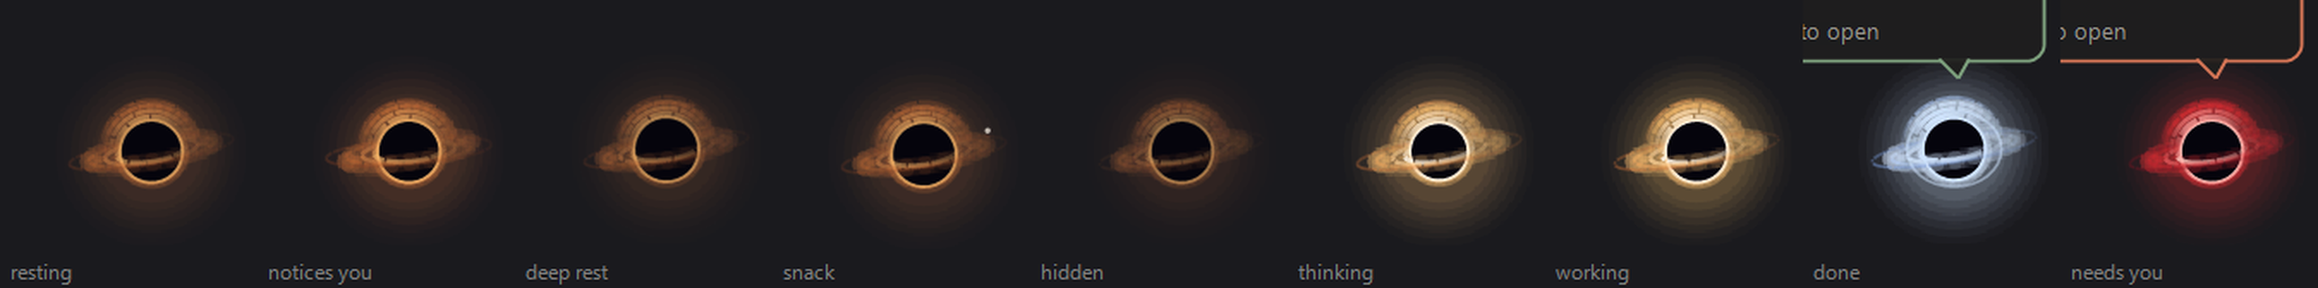
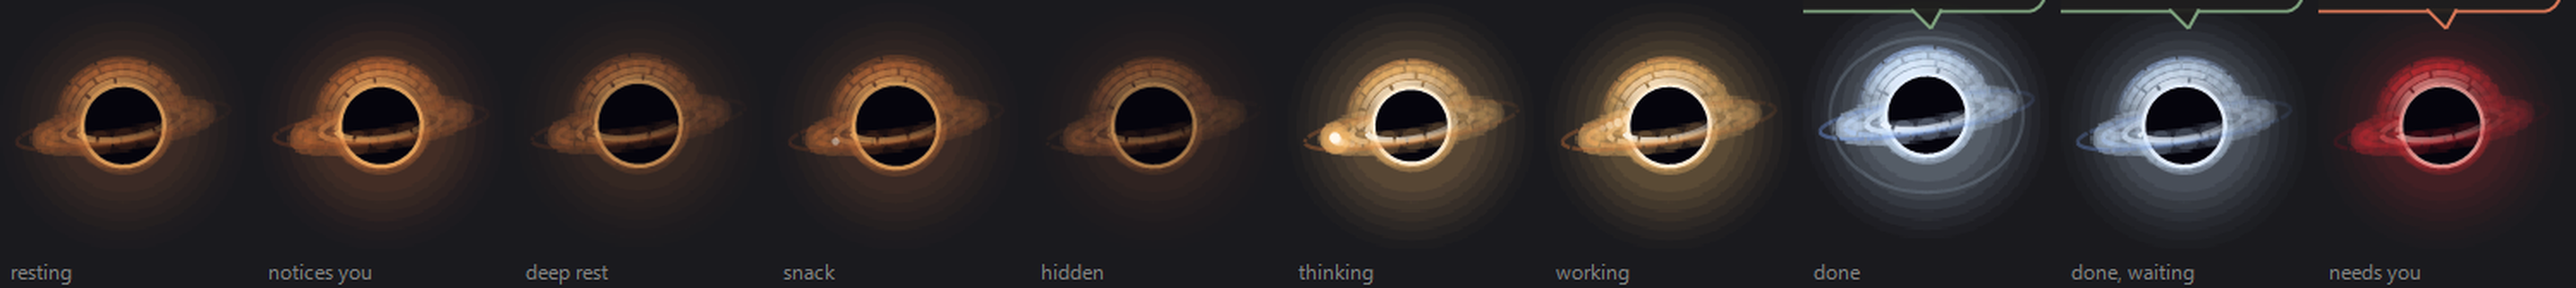
Make working and done unmistakable, and draw Voidling 30% larger
After its flare, a finished task settled to the same white-gold as a
running one, slightly dimmer and slower, so the two were hard to tell
apart from across the desk.

- Working: one bright knot of gas with a short tail races round the
  disk, hidden by the void as it passes behind.
- Done: the gas turns cool blue-white and all but stops, and stays so
  until you look, with a ripple of light every few seconds.
- Needs you stays crimson; resting stays dim amber.

So: moving and gold is working, blue and still is done, red is needs
you. Voidling is also drawn 30% larger, with its glow and disk caches
built at the larger size; the click zone grows to match.

A frame takes about 1.3 ms; live on this 144 Hz screen, 68 frames a
second at 10% of one core while on screen.

diff --git a/desktop/Pet.cs b/desktop/Pet.cs
@@ -34,7 +34,9 @@ public class PetForm : Form
 
     // The canvas, in pixels at 100% scaling. The core sits bottom right and
     // the bubble above it, so the window can hug the screen corner.
-    const int W = 300, H = 200, Span = 84;
+    const int W = 300, H = 200, Span = 110;
+    // Voidling is drawn this much larger than its geometry below.
+    const float Zoom = 1.3f;
 
     static readonly Color Blue = Color.FromArgb(91, 157, 187);
     static readonly Color Gold = Color.FromArgb(255, 200, 70);
@@ -325,7 +327,7 @@ public class PetForm : Form
         Point c = PointToClient(Cursor.Position);
         float x = c.X / scale, y = c.Y / scale;
         float cx = W - 8 - Span / 2f, cy = H - 8 - Span / 2f;
-        bool onIt = pressed || bubbleBox.Contains(x, y) || (x - cx) * (x - cx) + (y - cy) * (y - cy) < 38 * 38;
+        bool onIt = pressed || bubbleBox.Contains(x, y) || (x - cx) * (x - cx) + (y - cy) * (y - cy) < 50 * 50;
         if (onIt == !passing) return;
         passing = !onIt;
         int ex = GetWindowLong(Handle, ExStyle);
@@ -554,7 +556,7 @@ public class PetForm : Form
         DrawHole(g, t, mood, t - alertAt);
         g.Restore(saved);
 
-        float top = cy - 34;
+        float top = cy - 34 * Zoom;
         if ((mood == Mood.Working || mood == Mood.Thinking) && working > 1) DrawCount(g, cx, top);
         if (shown != null) DrawBubble(g, mood, shown, cx, top);
     }
@@ -739,15 +741,18 @@ public class PetForm : Form
             case Mood.Working:
                 bright = 0.95f + 0.05f * (float)Math.Sin(t * 2); flow = 1f; hot = HotWhite; mid = Gold2; outer = Amber; break;
             case Mood.Done:
+                // Finished: the gas turns cool blue-white and all but stops,
+                // and stays that way until you look. Still and blue means
+                // done; moving and gold means working; red means it needs you.
+                hot = Color.FromArgb(236, 244, 255); mid = BlueWhite; outer = Color.FromArgb(112, 150, 226);
                 if (burst)
                 {
-                    // The flare: blue-white light rushing out, easing back to gold.
+                    // The flare: a rush of light that settles into stillness.
                     float k = (float)Math.Min(1, since / 3);
-                    hot = Blend(BlueWhite, HotWhite, k); mid = Blend(BlueWhite, Gold2, k); outer = Blend(Color.FromArgb(120, 160, 230), Amber, k);
-                    bright = 1.1f - 0.2f * k; flow = 1.4f - 0.6f * k;
+                    bright = 1.15f - 0.35f * k; flow = 1.2f - 1.08f * k;
                     if (since < 1.4) lift = 5 * (float)Math.Sin(since / 1.4 * Math.PI);
                 }
-                else { hot = HotWhite; mid = Gold2; outer = Amber; bright = 0.8f; flow = 0.6f; }
+                else { bright = 0.78f + 0.06f * (float)Math.Sin(t * 1.1); flow = 0.12f; }
                 break;
             case Mood.Needs:
                 // The gas cools to crimson and its light breathes slowly.
@@ -762,6 +767,7 @@ public class PetForm : Form
         float bob = (float)Math.Sin(t * 1.05) * (still ? 0.6f : 1.6f);
         float breath = (float)Math.Sin(t * 1.2) * 0.02f;
         g.TranslateTransform(0, bob - lift);
+        g.ScaleTransform(Zoom, Zoom);
 
         // A wide, faint glow of scattered light.
         Blit(g, Glow(mid, 0.42f * bright), -GlowR, -GlowR, 2 * GlowR, 2 * GlowR);
@@ -784,6 +790,9 @@ public class PetForm : Form
 
         // 1. The far half of the disk, behind everything.
         DiskBand(g, phase, rx, ry, hot, mid, outer, bright * 0.8f, true, false);
+        bool racing = mood == Mood.Working || mood == Mood.Thinking;
+        double lap = t * (mood == Mood.Thinking ? 4.2 : 2.6) * (still ? 0.5 : 1);
+        if (racing) HotSpot(g, lap, rx, ry, true);
 
         // 2. Its light bent over the top of the void: the arch.
         DiskArch(g, phase, c, hot, mid, outer, bright, true, false);
@@ -803,12 +812,14 @@ public class PetForm : Form
         Blit(g, haze[1], -HazeW / 2, -HazeTop, HazeW, HazeH);
         g.Restore(flat);
         DiskBand(g, phase, rx, ry, hot, mid, outer, bright, false, false);
+        if (racing) HotSpot(g, lap, rx, ry, false);
         g.Restore(level);
 
-        // A finish: one ripple of light rolling out.
-        if (burst)
+        // A finish: a ripple of light rolling out, then again every few
+        // seconds for as long as the finish waits for you.
+        if (mood == Mood.Done && (burst || (since % 4.5) < 1.8))
         {
-            double ph = Math.Min(1, since / 1.6);
+            double ph = burst ? Math.Min(1, since / 1.6) : (since % 4.5) / 1.8;
             float r = c + 6 + (float)ph * 30;
             using (Pen p = new Pen(Color.FromArgb(Clamp(150 * (1 - ph) * (1 - ph)), BlueWhite), 1.3f))
                 g.DrawEllipse(p, -r, -r * 0.8f, 2 * r, 1.6f * r);
@@ -828,6 +839,26 @@ public class PetForm : Form
     }
 
     static int Clamp(double v) { return v < 0 ? 0 : v > 255 ? 255 : (int)v; }
+
+    // While it works, one bright knot of gas races round the disk with a
+    // short tail: unmistakably busy, even from across the room. The far
+    // half of its lap is drawn before the void, which hides it as it passes
+    // behind; the near half after.
+    static void HotSpot(Graphics g, double lap, float rx, float ry, bool back)
+    {
+        float r = rx * 0.66f, rr = ry * 0.8f;
+        for (int i = 5; i >= 0; i--)
+        {
+            double a = lap - i * 0.16;
+            if ((Math.Sin(a) < 0) != back) continue;
+            float x = (float)Math.Cos(a) * r, y = (float)Math.Sin(a) * rr;
+            float fade = 1 - i / 6f, size = 1.6f + 2.4f * fade;
+            using (SolidBrush halo = new SolidBrush(Color.FromArgb(Clamp(80 * fade), Gold2)))
+                g.FillEllipse(halo, x - size * 1.4f, y - size * 1.4f, size * 2.8f, size * 2.8f);
+            using (SolidBrush b = new SolidBrush(Color.FromArgb(Clamp(255 * fade), HotWhite)))
+                g.FillEllipse(b, x - size / 2, y - size / 2, size, size);
+        }
+    }
 
     // A cached image drawn at its own pixel size: no smoothing pass needed.
     static void Blit(Graphics g, Bitmap b, float x, float y, float w, float h)
@@ -858,7 +889,7 @@ public class PetForm : Form
         pair = new Bitmap[2];
         for (int k = 0; k < 2; k++)
         {
-            int w = (int)Math.Ceiling(HazeW * scale), h = (int)Math.Ceiling(HazeH * scale);
+            int w = (int)Math.Ceiling(HazeW * scale * Zoom), h = (int)Math.Ceiling(HazeH * scale * Zoom);
             Bitmap bmp = new Bitmap(w, h, PixelFormat.Format32bppPArgb);
             bmp.SetResolution(96, 96);
             using (Graphics g = Graphics.FromImage(bmp))
@@ -1104,7 +1135,7 @@ public class PetForm : Form
         if (glows.TryGetValue(key, out b)) return b;
         if (glows.Count > 200) { foreach (Bitmap old in glows.Values) old.Dispose(); glows.Clear(); }
 
-        int px = (int)Math.Ceiling(2 * GlowR * scale);
+        int px = (int)Math.Ceiling(2 * GlowR * scale * Zoom);
         b = new Bitmap(px, px, PixelFormat.Format32bppPArgb);
         b.SetResolution(96, 96);
         using (Graphics g = Graphics.FromImage(b))

diff --git a/README.md b/README.md
@@ -101,7 +101,7 @@ If its notifications never appear, check Windows **Do not disturb**, the bell ic
 
 **The desk pet**
 
-Voidling, a small black hole, sits in the bottom-right corner of the screen, above the taskbar, and shows what the board knows without opening it. It is drawn from how a black hole looks: a flat disk of hot gas seen nearly edge-on, its near half crossing in front of the void, the far half's light bent into an arch over the top and a thin band under the bottom, a bright ring hugging the void, and the side of the disk turning toward you brighter than the other. It has no face; its mood is in the disk's colour, brightness and flow. Do not disturb does not hide it, and it does not go away after six seconds the way a banner does.
+Voidling, a small black hole, sits in the bottom-right corner of the screen, above the taskbar, and shows what the board knows without opening it. It is drawn from how a black hole looks: a flat disk of hot gas seen nearly edge-on, its near half crossing in front of the void, the far half's light bent into an arch over the top and a thin band under the bottom, a bright ring hugging the void, and the side of the disk turning toward you brighter than the other. It has no face; its mood is in the disk's colour, brightness and flow, and reads from across the room: moving and gold means working, blue and still means done, red means it needs you. Do not disturb does not hide it, and it does not go away after six seconds the way a banner does.
 
 ![Voidling resting, noticing you, in deep rest, swallowing a mote, hidden, thinking, working, after a finish, and when a task needs you](docs/screenshots/pet-states.png)
 
@@ -111,9 +111,9 @@ Voidling, a small black hole, sits in the bottom-right corner of the screen, abo
 | A little brighter, the disk turned your way | The pointer comes near |
 | Now and then a mote of gas falls in along the disk | Resting or working |
 | Faint and nearly still | A run is going in an app you cannot see, minimized or covered |
-| Hot white-gold, the gas racing, the void a little tighter | The first seconds of a run |
-| Hot white-gold, flowing steadily, with a count if more than one task runs | Any Claude or ChatGPT task is working |
-| A blue-white flare easing back to gold, a ripple of light, and a green bubble naming the task | A task finished while you were in another app |
+| Hot white-gold, a bright knot of gas racing round the disk fast, the void a little tighter | The first seconds of a run |
+| Hot white-gold, with one bright knot of gas and its tail racing round the disk, and a count if more than one task runs | Any Claude or ChatGPT task is working |
+| A blue-white flare that settles into cool blue and stillness, a ripple of light every few seconds until you look, and a green bubble naming the task | A task finished while you were in another app |
 | The gas cooled to a deep crimson, its light breathing slowly, and an orange bubble | A task needs your approval or answer |
 
 It draws one frame per screen refresh, timed to Windows' own screen updates: 60 a second on a 60 Hz screen, 60 or 72 on a faster one, half that on battery saver. Every movement is continuous, with nothing that jumps or flickers. With Windows' Animation effects off it moves more gently, at the same frame rate. The bubble stays until you click Voidling, which opens that task's conversation. Clicking it with no bubble opens the task list. A Claude Code task that finishes while the Claude app is in front gets a four-second flash and no sound, so a session in front of you does not nag. Drag it anywhere; it keeps the spot. The cross at the bubble's top right puts that one alert away without opening anything. Only Voidling and its bubble take clicks; the faint motes around it let clicks through to whatever is below. It holds back over full-screen apps and presentations, draws half its motes on battery saver, and all but stops moving when Windows' **Show animations** is off. Right-click for **Tasks**, **Dismiss all**, **Sound** and **Hide until the next task**.
